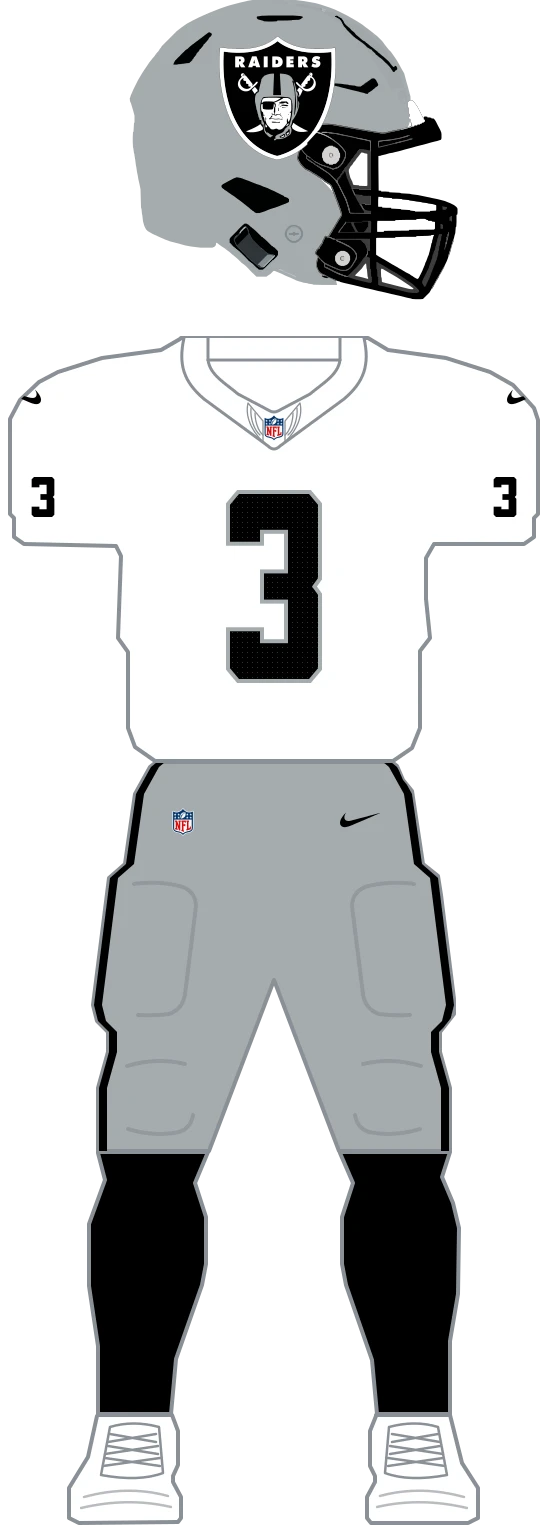
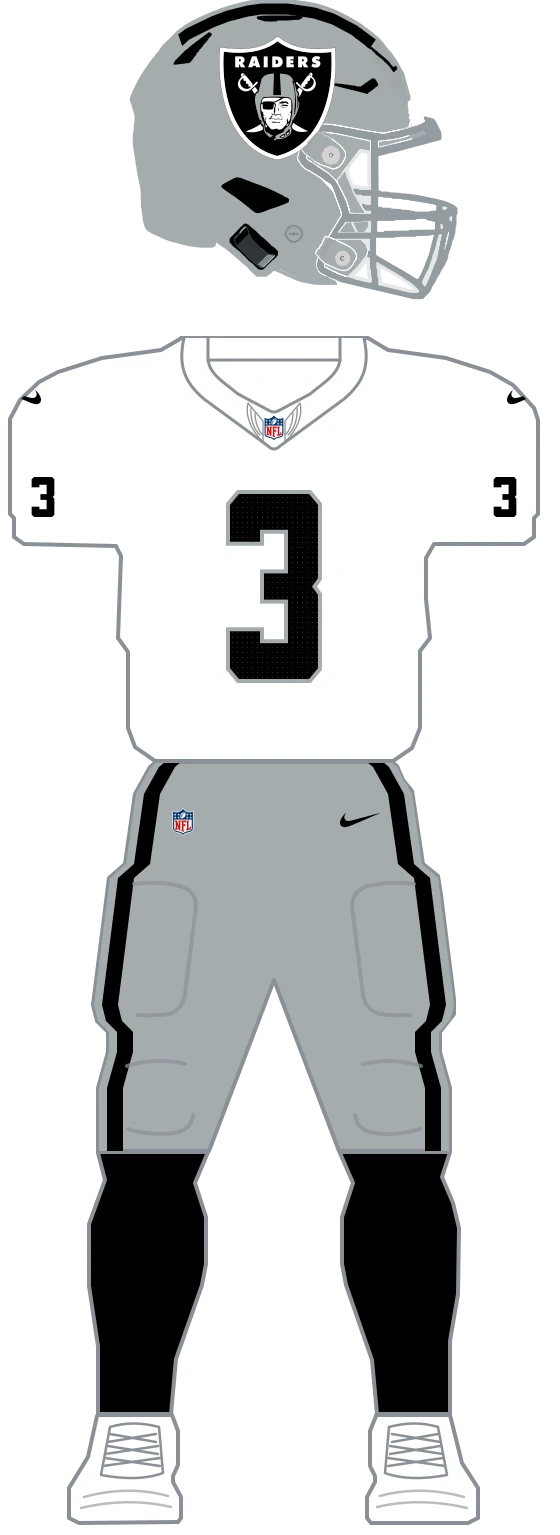
fix(uniforms): add the black helmet crown stripe, silver cage and inset pants side stripe for the Raiders (#1143)
The silver shield helmet now carries a seated black crown stripe and a silver facemask in place of the black cage, and the silver pants' black side-seam stripe is widened and set in from the leg edge so it reads as a stripe rather than the leg outline.

diff --git a/web/lib/uniforms/teams/raiders/parts.ts b/web/lib/uniforms/teams/raiders/parts.ts
@@ -1,6 +1,6 @@
 // Las Vegas as a complete team spec: every helmet, jersey, pants and socks part. Both kits wear
-// the same silver shell with the shield decal, the same silver pants and the same black socks;
-// only the jersey body differs, black at home and white away.
+// the same silver shell with the crown stripe and shield decal, the same silver pants and the same
+// black socks; only the jersey body differs, black at home and white away.
 import type { TeamSpec } from '../core/team-spec';
 import { RAIDERS_HELMET_DECAL } from './marks/construction';
 import { RAIDERS_JERSEY_BLACK } from './jerseys/black';
@@ -11,10 +11,10 @@ export const RAIDERS_PALETTE = { black: '#000000', white: '#FFFFFF', silver: '#A
 
 export const RAIDERS_SPEC: TeamSpec = {
   helmets: {
-    // The silver shell with the shield decal and a black cage.
+    // The silver shell with a black crown stripe, the shield decal and a silver cage.
     'silver-shield': {
       shell: 'silver',
-      facemask: 'black',
+      facemask: 'silver',
       decal: RAIDERS_HELMET_DECAL,
       number: 'none',
     },
@@ -24,12 +24,16 @@ export const RAIDERS_SPEC: TeamSpec = {
     white: RAIDERS_JERSEY_WHITE,
   },
   pants: {
-    // One black stripe down the side seam, stopping at the hem.
+    // One black stripe down the side seam, set in from the leg's outer edge by a silver margin so
+    // it reads as a stripe rather than the leg outline; it stops at the hem.
     silver: {
       body: 'silver',
       stripes: {
         position: 'leg-edge',
-        bands: [{ color: 'black', size: 's' }],
+        bands: [
+          { color: 'silver', size: 's' },
+          { color: 'black', size: 'm' },
+        ],
         gap: 'none',
         edge: 'none',
       },

diff --git a/web/lib/uniforms/teams/raiders/marks/construction.ts b/web/lib/uniforms/teams/raiders/marks/construction.ts
@@ -1,16 +1,19 @@
-// Las Vegas' own art, bound to palette keys and emitted exactly as written: the helmet shield with
-// its keyline, wordmark, crossed sabres, helmeted face and interior shading, in source paint order.
+// Las Vegas' own art, bound to palette keys and emitted exactly as written: a black crown stripe
+// seated on the shell, then the helmet shield with its keyline, wordmark, crossed sabres, helmeted
+// face and interior shading, in source paint order.
 import { RAIDERS_DECAL_PATHS } from './decal';
 import { placed } from '../../core/marks';
 import type { PartLayer } from '../../core/parts';
+import { seatedCrownStripe } from '../../core/shared';
 
-export const RAIDERS_HELMET_DECAL = placed(
-  RAIDERS_DECAL_PATHS.map(({ d, fill }, index): PartLayer => ({
+export const RAIDERS_HELMET_DECAL = placed([
+  ...seatedCrownStripe([{ id: 'raiders-helmet-crown', fill: 'black', weight: 1 }]),
+  ...RAIDERS_DECAL_PATHS.map(({ d, fill }, index): PartLayer => ({
     id: `raiders-decal-svg-${String(index + 1).padStart(2, '0')}`,
     surface: 'helmet',
     d,
     clip: true,
     kind: 'fill',
     fill,
-  }))
-);
+  })),
+]);
